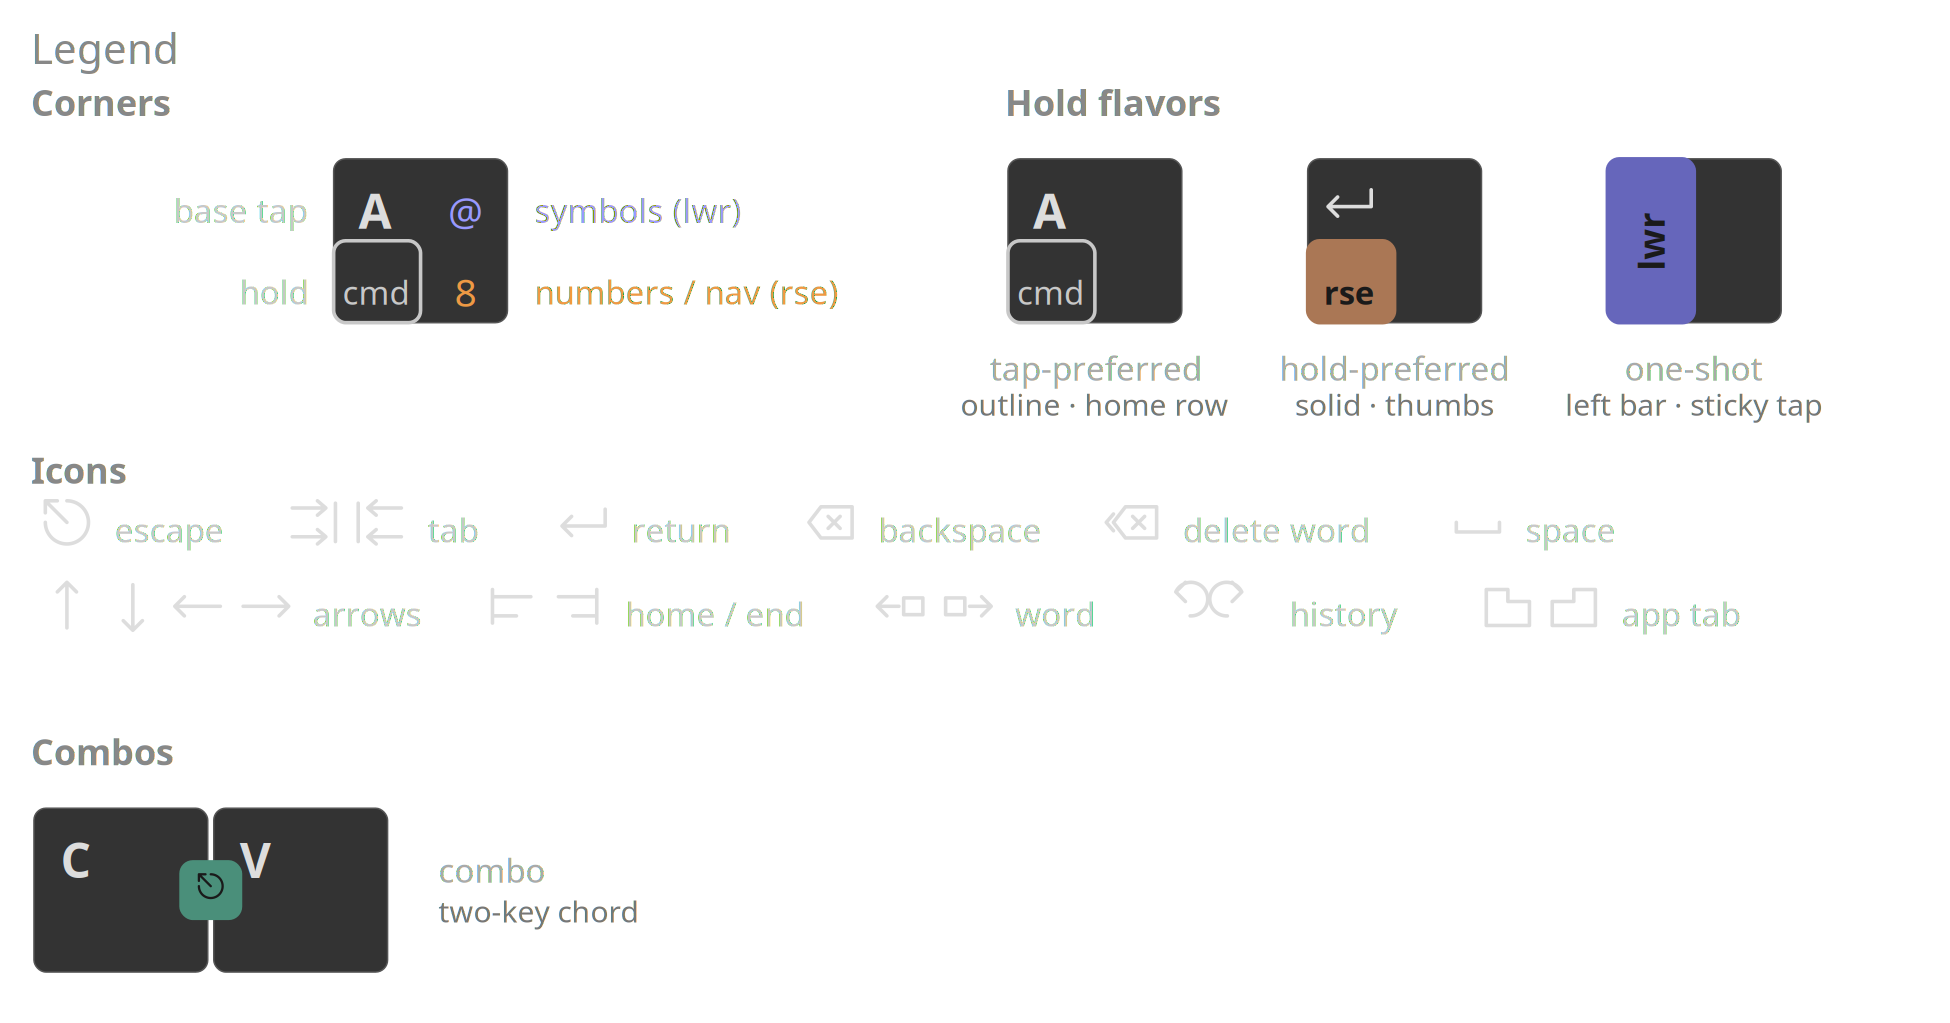
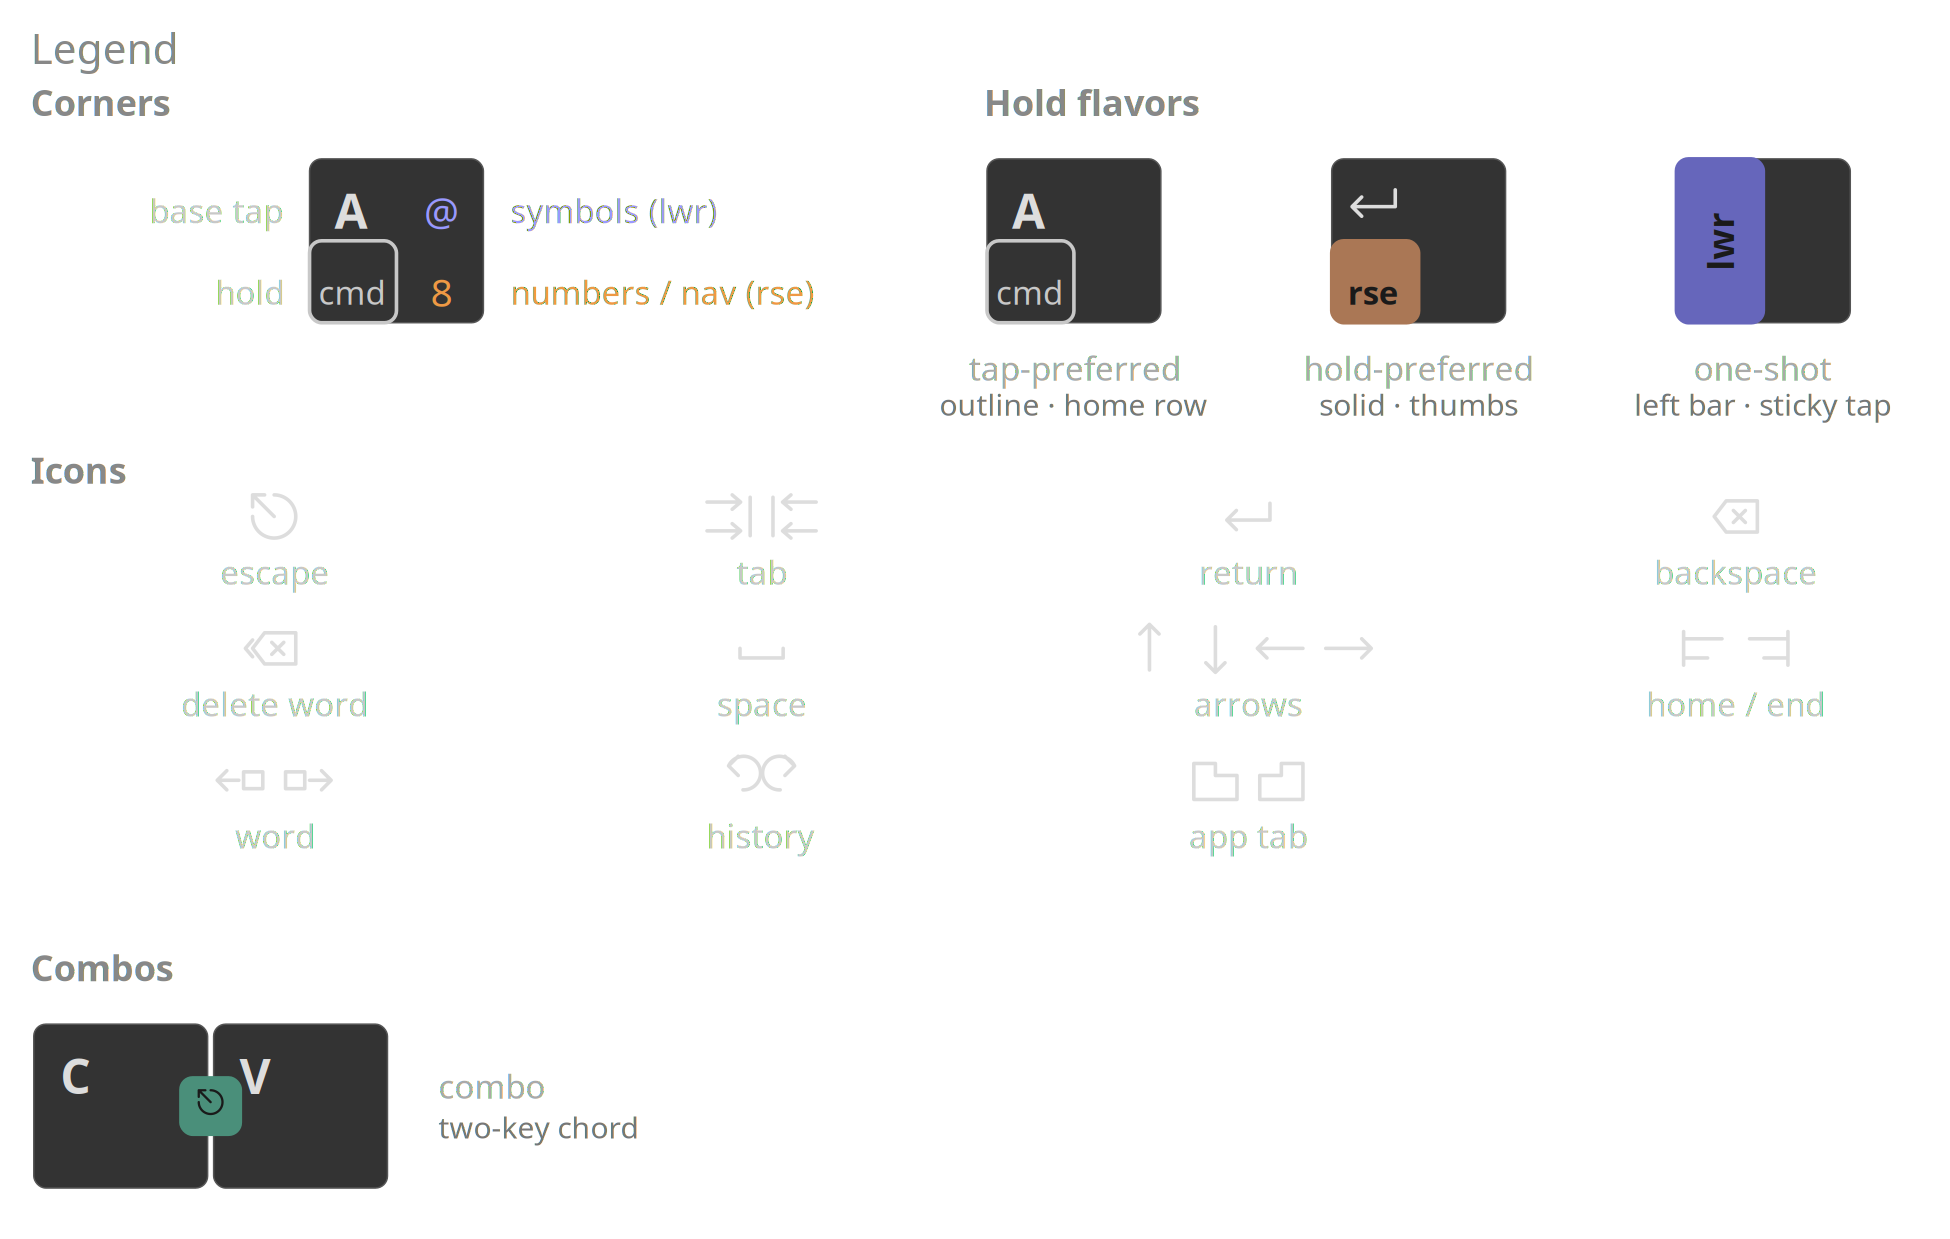
Align the reference legend on a column grid
Pack the icon row to ragged label widths made the second line drift.
Sit each group in a four-column cell with the label centered under the
glyphs, and space the hold-flavor keys evenly across the right pane.

diff --git a/keymap_generator/src/keymap_generator/render.py b/keymap_generator/src/keymap_generator/render.py
@@ -151,6 +151,14 @@ GLYPH_LEGEND: tuple[tuple[tuple[str, ...], str], ...] = (
     (("app-tab-prev", "app-tab-next"), "app tab"),
 )
 
+# Legend layout. Width matches the reference board. Icons sit on a
+# column grid so rows share x origins instead of packing to ragged
+# label widths.
+LEGEND_WIDTH = 650.0
+LEGEND_ICON_COLS = 4
+LEGEND_GLYPH_STEP = 22.0
+LEGEND_ICON_ROW_H = 44.0
+
 # Paths are drawn in a 48×48 box centred on (24, 24), then scaled down by
 # glyph_defs. Stroke-only: closed shapes read as outlines.
 GLYPH_PATHS = {
@@ -391,7 +399,7 @@ def legend_style() -> str:
     text.caption { font-size: 11px; fill: #aaaaaa; text-anchor: middle; }
     text.caption.sub { font-size: 10px; fill: #777777; }
     text.caption.start { text-anchor: start; }
-    text.glyph-label { font-size: 11px; fill: #c8c8c8; text-anchor: start; }
+    text.glyph-label { font-size: 11px; fill: #c8c8c8; text-anchor: middle; }
     """.strip()
 
 
@@ -576,13 +584,18 @@ def slug(name: str) -> str:
 
 def render_legend() -> str:
     """SVG legend for the stacked reference: corners, flavors, combos, icons."""
-    # Match the reference board's width so the two images line up in the README.
-    width = 650.0
+    width = LEGEND_WIDTH
+    section_y = 10.0
     key_y = 28.0
-    corner_x = 100.0
-    flavor_x = 325.0
-    flavor_gap = 100.0
-    icon_row_h = 28.0
+    caption_y = key_y + KH + 14.0
+    caption_sub_y = key_y + KH + 26.0
+    # Left pane holds the annotated corner key; right pane the three flavors.
+    corner_x = 92.0
+    flavor_start = 318.0
+    flavor_end = 548.0
+    icon_title_y = caption_sub_y + 22.0
+    icon_y = icon_title_y + 18.0
+    col_w = width / LEGEND_ICON_COLS
 
     parts = [
         draw_key(
@@ -601,7 +614,7 @@ def render_legend() -> str:
     y_bot = key_y + KH * 0.80
     parts.extend(
         [
-            '<text class="section" x="0" y="10">Corners</text>',
+            f'<text class="section" x="0" y="{section_y:.0f}">Corners</text>',
             f'<text class="callout end" x="{corner_x - 8:.1f}" y="{y_top:.1f}">'
             "base tap</text>",
             f'<text class="callout end" x="{corner_x - 8:.1f}" y="{y_bot:.1f}">'
@@ -635,52 +648,47 @@ def render_legend() -> str:
             "left bar · sticky tap",
         ),
     )
-    parts.append(f'<text class="section" x="{flavor_x:.1f}" y="10">Hold flavors</text>')
+    flavor_step = (flavor_end - flavor_start) / (len(flavors) - 1)
+    parts.append(
+        f'<text class="section" x="{flavor_start:.1f}" y="{section_y:.0f}">'
+        "Hold flavors</text>"
+    )
     for i, (spec, title, subtitle) in enumerate(flavors):
-        x = flavor_x + i * flavor_gap
+        x = flavor_start + i * flavor_step
         cx = x + KW / 2
         parts.append(draw_key(x, key_y, spec))
         parts.append(
-            f'<text class="caption" x="{cx:.1f}" y="{key_y + KH + 14:.1f}">'
+            f'<text class="caption" x="{cx:.1f}" y="{caption_y:.1f}">'
             f"{esc(title)}</text>"
         )
         parts.append(
-            f'<text class="caption sub" x="{cx:.1f}" y="{key_y + KH + 26:.1f}">'
+            f'<text class="caption sub" x="{cx:.1f}" y="{caption_sub_y:.1f}">'
             f"{esc(subtitle)}</text>"
         )
 
-    icon_title_y = key_y + KH + 48.0
-    icon_y = icon_title_y + 20.0
     parts.append(f'<text class="section" x="0" y="{icon_title_y:.1f}">Icons</text>')
-    glyph_step = 22.0
-    # Pack groups left-to-right so a 4-arrow cluster can be wider than a
-    # single icon without forcing a rigid column grid.
-    x = 0.0
-    row = 0
-    n_icon_rows = 1
-    for names, label in GLYPH_LEGEND:
-        first_gx = 12.0
-        label_x = first_gx + (len(names) - 1) * glyph_step + 16.0
-        # 11px sans-serif is roughly 6.4px per character.
-        item_w = label_x + max(len(label) * 6.4, 24.0) + 16.0
-        if x > 0.0 and x + item_w > width:
-            x = 0.0
-            row += 1
+    n_icon_rows = 0
+    for i, (names, label) in enumerate(GLYPH_LEGEND):
+        col = i % LEGEND_ICON_COLS
+        row = i // LEGEND_ICON_COLS
         n_icon_rows = row + 1
-        y = icon_y + row * icon_row_h
+        cell_x = col * col_w
+        mid = cell_x + col_w / 2
+        y = icon_y + row * LEGEND_ICON_ROW_H
+        group_w = (len(names) - 1) * LEGEND_GLYPH_STEP
+        first_gx = mid - group_w / 2
         for j, name in enumerate(names):
-            gx = x + first_gx + j * glyph_step
+            gx = first_gx + j * LEGEND_GLYPH_STEP
             parts.append(
                 f'<use class="glyph base" href="#glyph_{name}" '
                 f'x="{gx:.1f}" y="{y:.1f}"/>'
             )
         parts.append(
-            f'<text class="glyph-label" x="{x + label_x:.1f}" y="{y:.1f}">'
+            f'<text class="glyph-label" x="{mid:.1f}" y="{y + 16:.1f}">'
             f"{esc(label)}</text>"
         )
-        x += item_w
 
-    combo_title_y = icon_y + n_icon_rows * icon_row_h + 18.0
+    combo_title_y = icon_y + n_icon_rows * LEGEND_ICON_ROW_H + 16.0
     combo_key_y = combo_title_y + 18.0
     combo_x = 0.0
     # Same placement as combo_specs: badge sits on the seam of two adjacent keys.

diff --git a/keymap_generator/tests/test_render.py b/keymap_generator/tests/test_render.py
@@ -17,6 +17,9 @@ from keymap_generator.render import (
     GLYPH_PATHS,
     KH,
     KW,
+    LEGEND_GLYPH_STEP,
+    LEGEND_ICON_COLS,
+    LEGEND_WIDTH,
     RADIUS,
     TAP_GLYPHS,
     build_stacked_specs,
@@ -298,3 +301,12 @@ class TestRenderLegend:
         assert ">two-key chord</text>" in svg
         assert '<rect class="combo-badge"' in svg
         assert 'class="glyph combo"' in svg
+
+    def test_legend_icons_sit_on_a_column_grid(self) -> None:
+        svg = render_legend()
+        col_w = LEGEND_WIDTH / LEGEND_ICON_COLS
+        for i, (names, _label) in enumerate(GLYPH_LEGEND):
+            col = i % LEGEND_ICON_COLS
+            group_w = (len(names) - 1) * LEGEND_GLYPH_STEP
+            first_x = col * col_w + col_w / 2 - group_w / 2
+            assert f'href="#glyph_{names[0]}" x="{first_x:.1f}"' in svg
